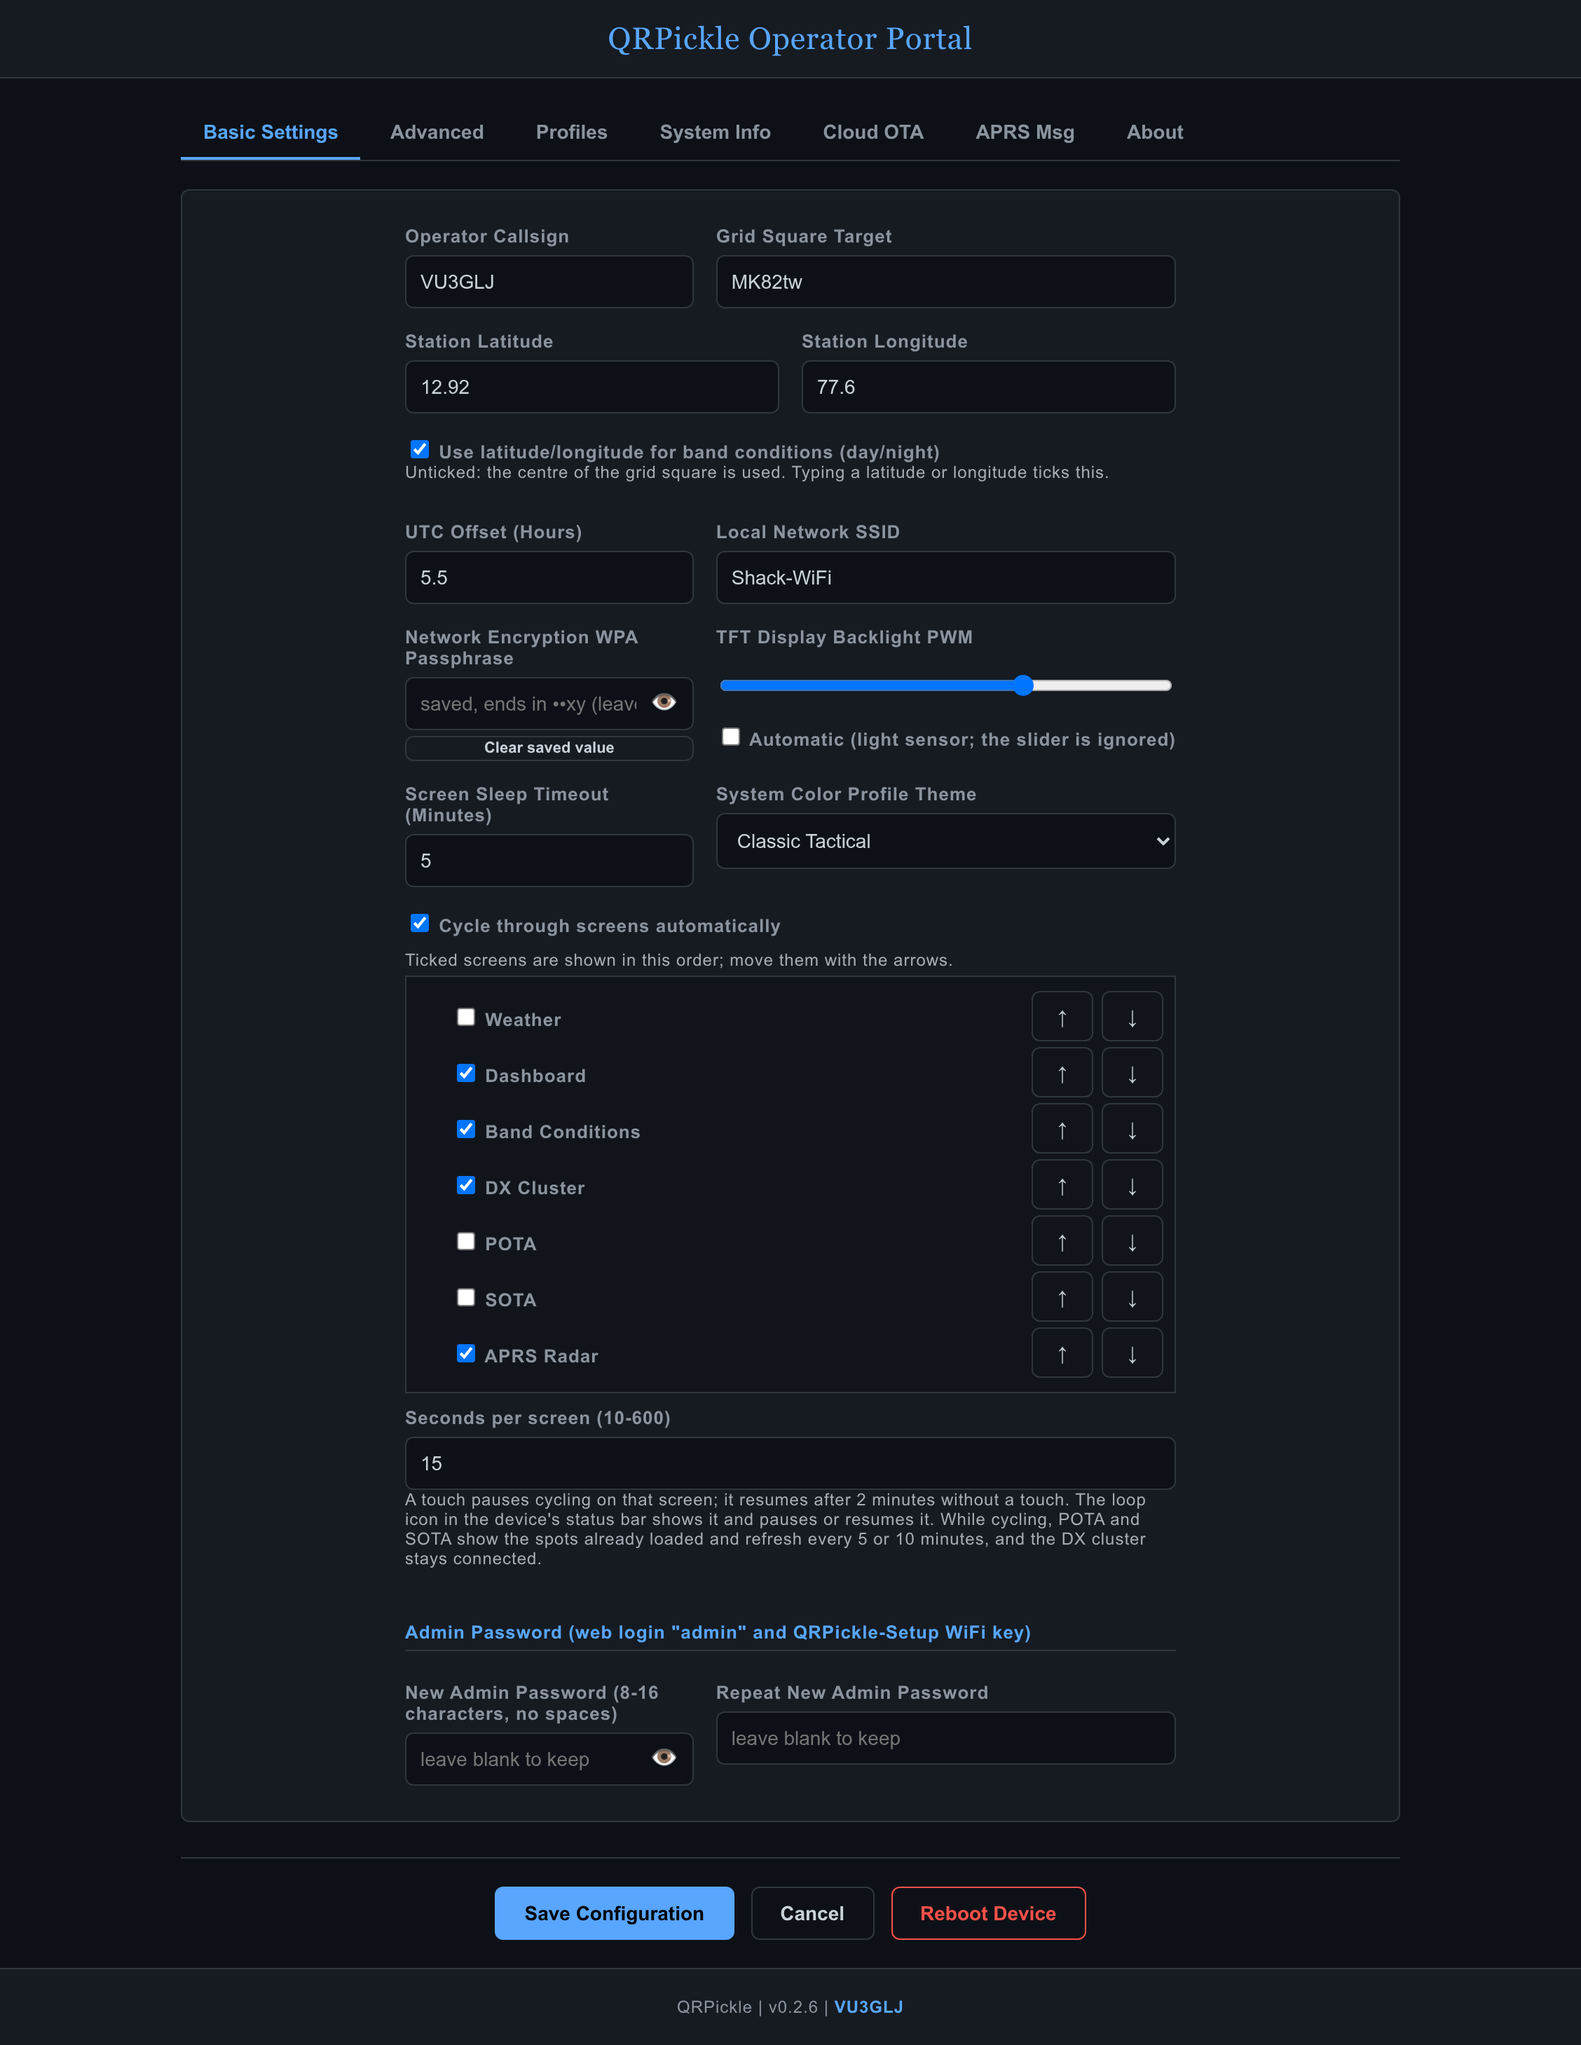
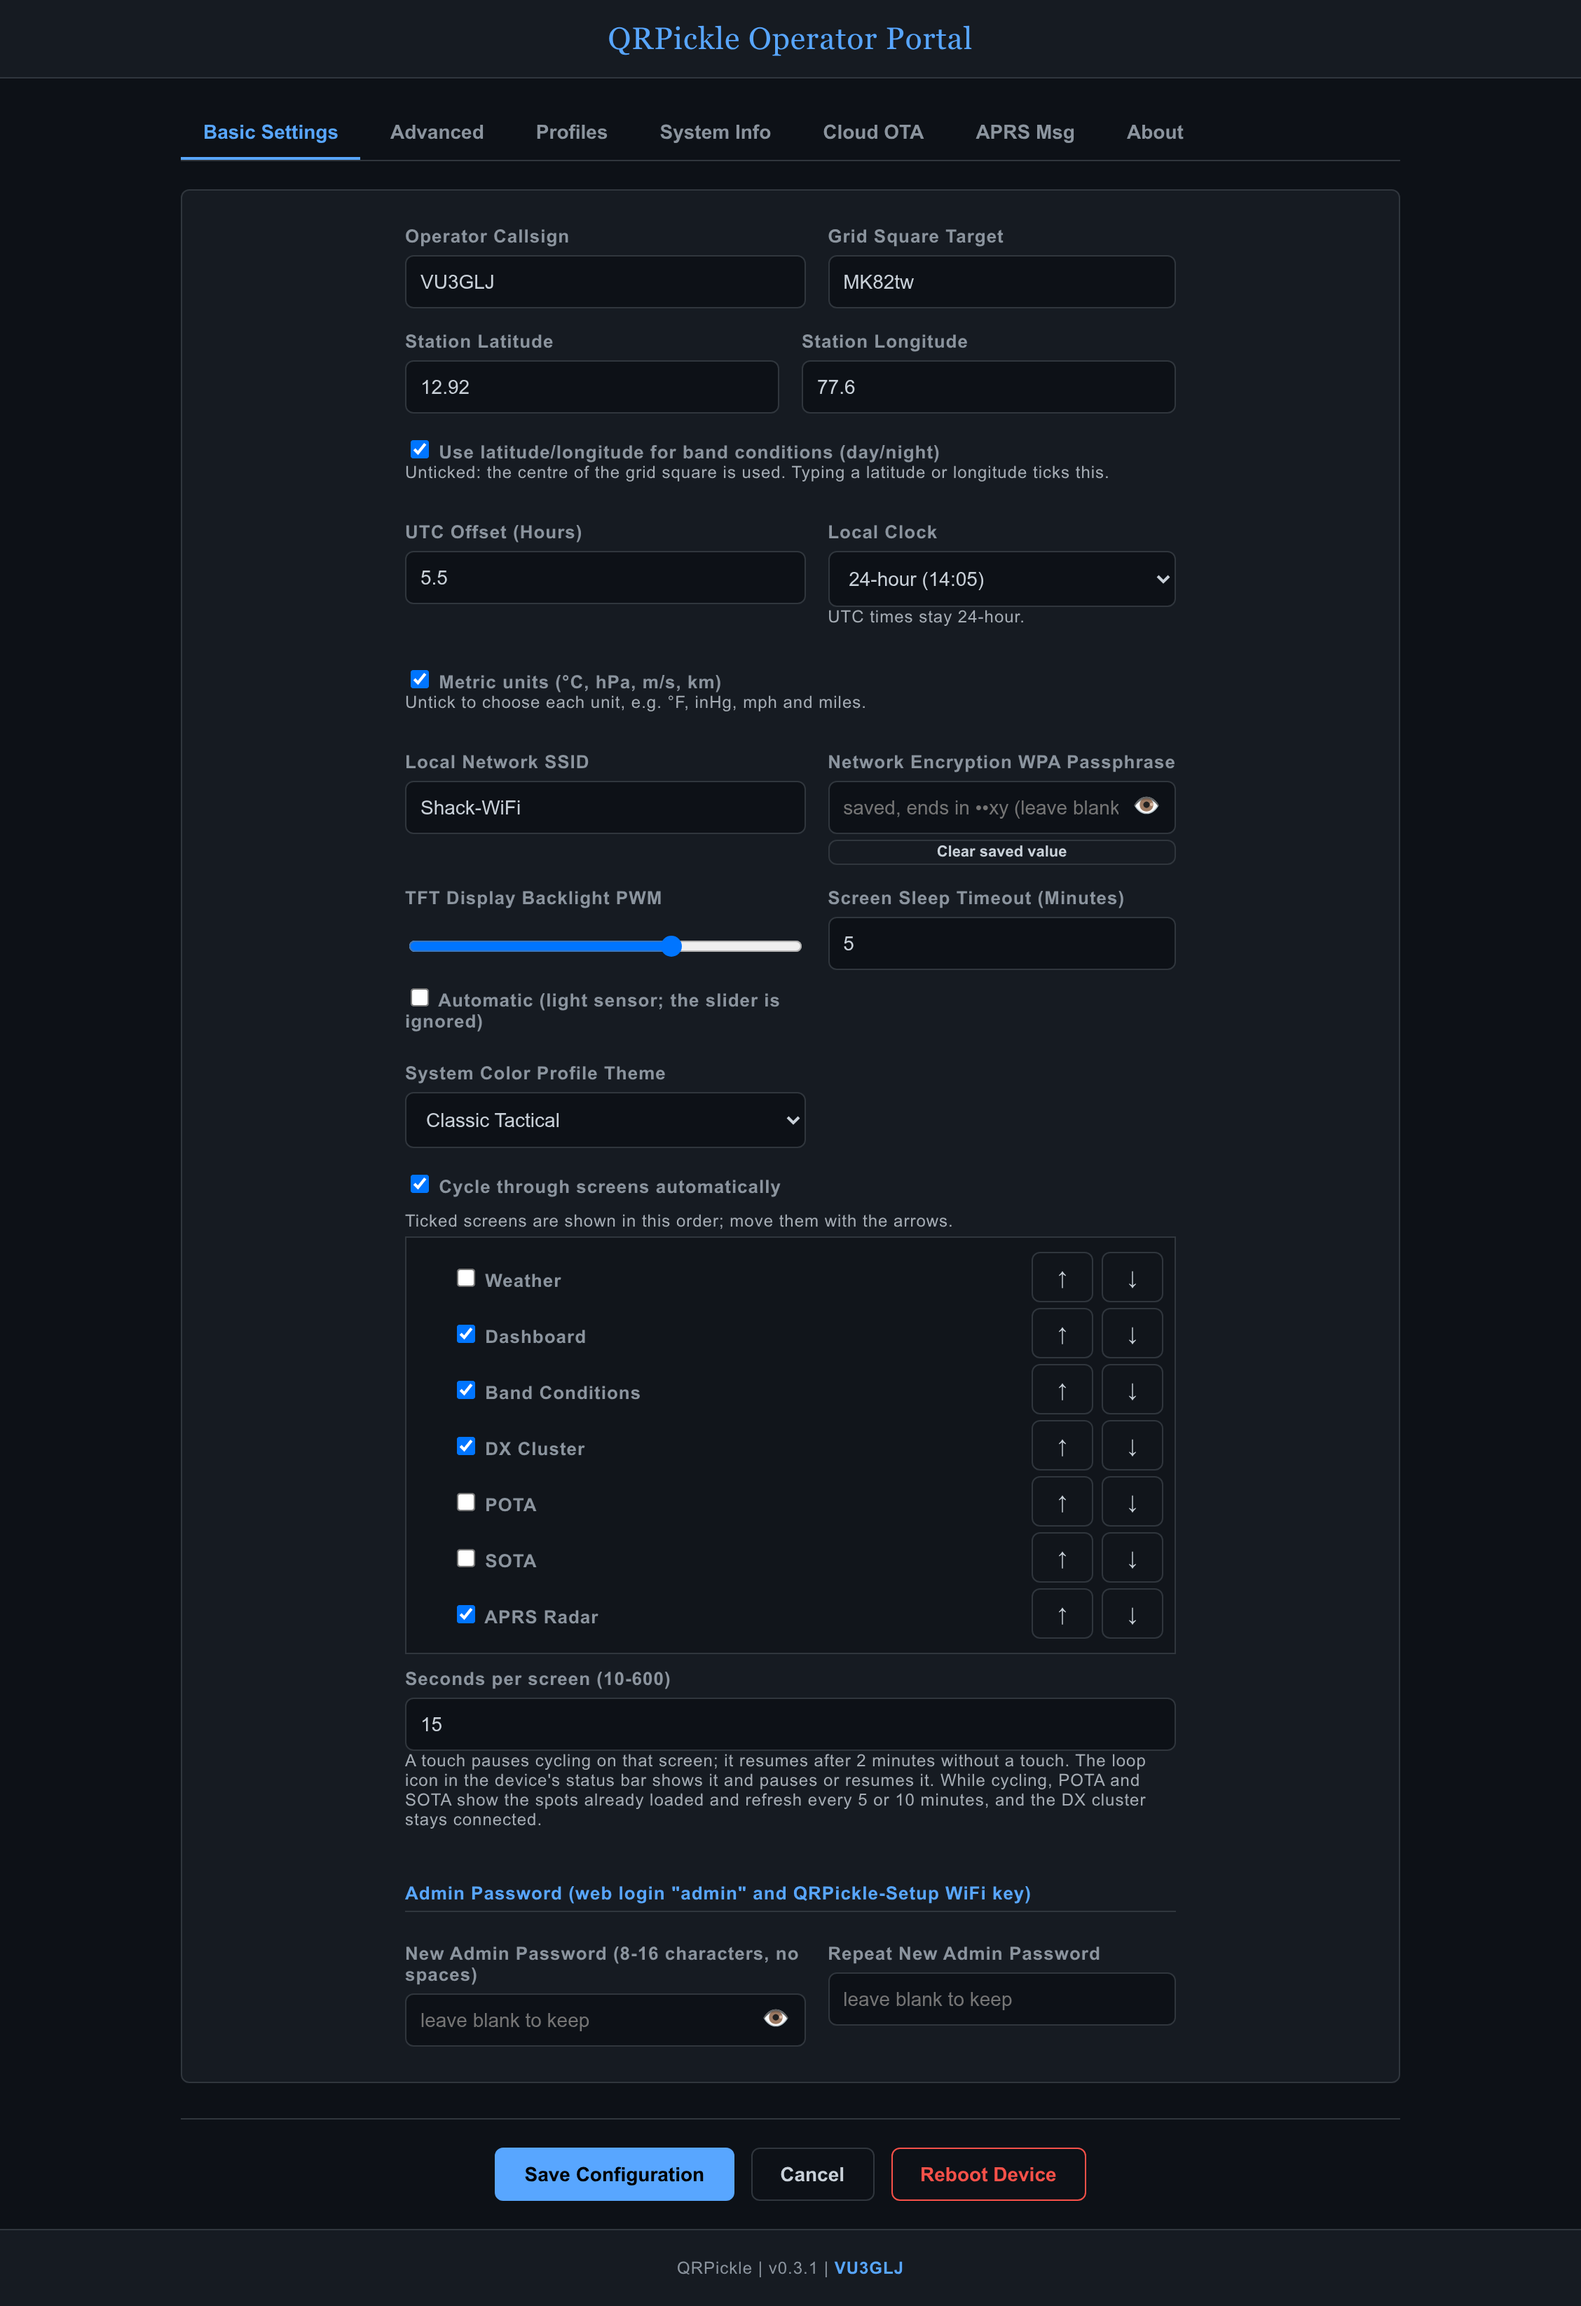
screenshots: web console with the units settings (v0.3.1); tracker: device check done
Device check on the CYD: units on every changed screen in US and mixed sets,
accented test event, WiFi change restart, profiles, webui_e2e 40/40, security
check 23/23. device_check.py: 0 resets/panics; 1-2 of 5 boots get WiFi reason
202 from the router (v0.3.0 does the same), left for the owner to decide.

diff --git a/docs/TASKS.md b/docs/TASKS.md
@@ -91,7 +91,8 @@ Plan: docs/private/plans/2026-11-07-v0.3.0-core3-port.md (branch `release/v0.3.0
 - [x] **Accented capitals missing from the device font (done 2026-11-20):** an ARISS event "École ..." shows as "□cole" on the Satellites events tab. Add the Latin-1 capitals (or map them to plain letters) and check flash and the font size. Done: every accented letter was missing (the text fonts were ASCII only), not only capitals; the five text fonts now carry U+00C0-00FF (+20 KB flash, 88.2% of the slot, no RAM); JetBrains Mono 24 shows numbers only and stays ASCII.
 - [x] **Delete the local `wip/net-worker` branch** (the network worker was dropped; v0.3.0 has shipped). Deleted 2026-11-20 (was 8ab401e; recoverable from the reflog for a while).
 - [x] **Display units (issue #25, owner 2026-11-20):** temperature °C/°F, pressure hPa/inHg, wind m/s, km/h, mph or knots, distance km/miles and a 12/24-hour local clock, set in the web console (a "Metric" tick box hides the four unit choices; profiles keep them). Readings, downloads, `/api/status` and the APRS beacon stay metric; UTC stays 24-hour. One host-safe module (`src/core/units`, test `test_units`); every screen formats through it and a change shows within 2 s without reopening the page. Flash +2 KB. Device check: see below.
-- [ ] **Device check for v0.3.1 (needs the CYD):** units on every screen (US, mixed, metric), accented names, upgrade from v0.3.0 stays metric, profiles and backup keep the units, `tools/webui_e2e` and `web_security_check.sh` pass, `device_check.py --cycles 5`, screenshots of the changed screens.
+- [x] **Device check for v0.3.1 (2026-11-20, CYD at 192.168.0.3, full flash backup first):** upgrade from v0.3.0 stays metric/24h; US (°F, inHg, mph, mi, 12h) and mixed (°C, hPa, kn, mi, 24h) screenshots of dashboard, weather (3 tabs), APRS list and radar, band conditions, satellites: nothing cut off; an ARISS event "École Thérèse-Martin, Québec" from a test feed shows its accents and the letter cut at 47 bytes leaves no box; a WiFi change restarts the board and it tries the new network (settings put back from an NVS copy); a save without a WiFi change doesn't; profiles keep the units; `webui_e2e` 40/40, `web_security_check.sh` 23/23; web console screenshots regenerated. Found and fixed: an own feed with spaces after ':' was rejected.
+- [ ] **WiFi refused at boot (found 2026-11-20; same on v0.3.0, not a regression):** `device_check.py` 5 cycles: 0 watchdog resets, 0 panics, but 1-2 of 5 boots get "reason 202" (authentication failed) from the router right after the reset and the firmware doesn't try again until the 20 s boot timeout, then joins about 15 s later from the fallback. Option: retry `WiFi.begin` a few seconds after an early 202 during the boot window. Owner to decide.
 - [ ] **Owner after the release:** reply on issue #25.
 - [x] **Videos (2026-11-08, files outside the repo in `~/Videos/QRPickle/v0.3.0/`):** the feature video's HamAlert scene recaptured with demo alerts (VU POTA activations from pota.app, DX QRP stations), since the owner has no triggers set up; a first-time setup video (2:29, captions, follows docs/SETUP.md).
 - [ ] **Video embeds (after the owner's upload):** the owner adds narration, uploads both videos to TilVids and sends the embed links; then the feature video replaces the screen tour GIF in the README and on the website home page, and the setup video goes into docs/SETUP.md and the website's Install page.
